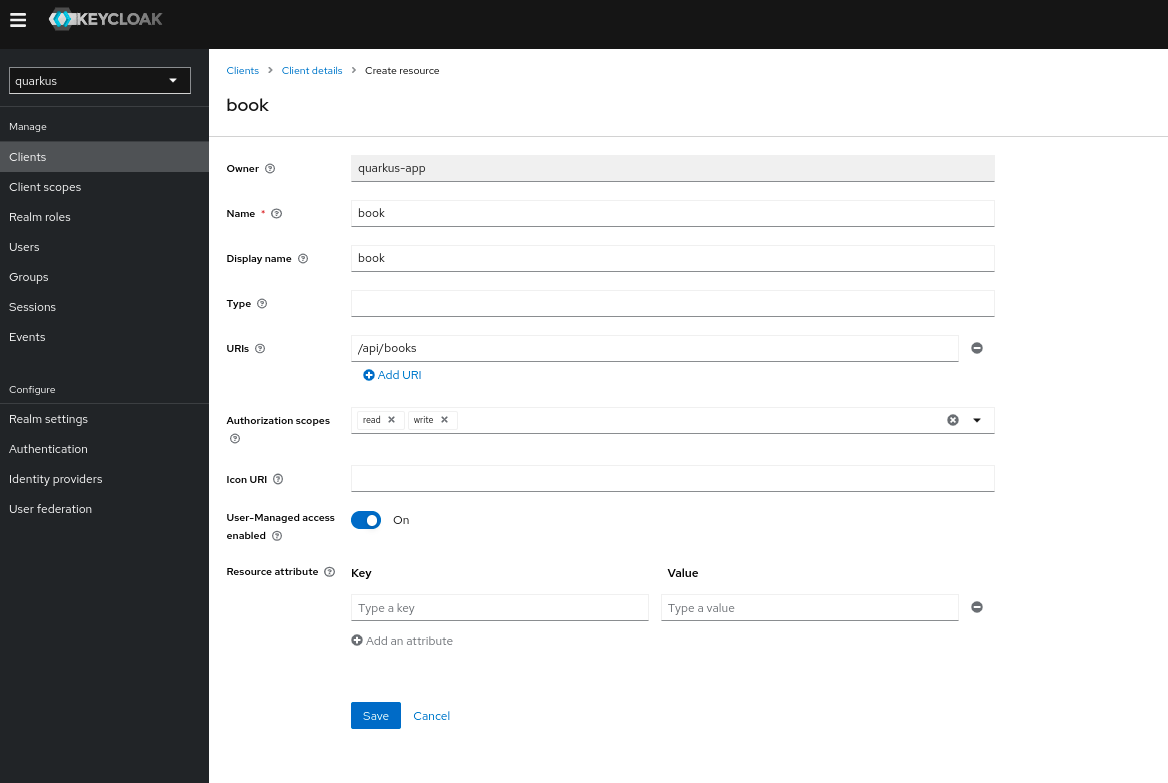
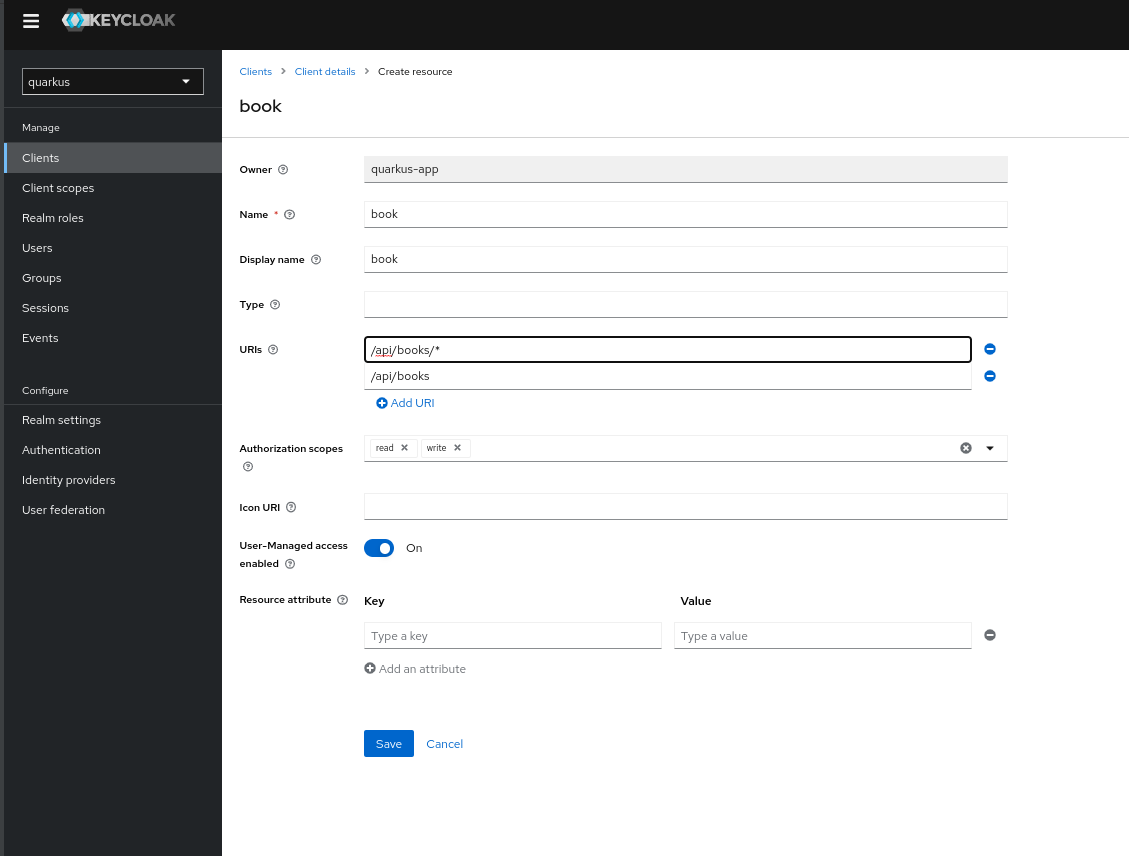
update screenshot of keycloak resource definition

diff --git a/quarkus/README.md b/quarkus/README.md
@@ -98,6 +98,7 @@ You should see 2 Authorization Scopes:
 
 ![img.png](./resources/pictures/protect-resource.png)
 
+
 #### Define Policies
 1. Go to Client --> Choose `Authorization` tab, and go to `Policies` sub-tab
 2. Click on button `Create policy
@@ -135,14 +136,14 @@ quarkus.keycloak.policy-enforcer.enable=true
 quarkus.keycloak.policy-enforcer.http-method-as-scope=true
 
 quarkus.keycloak.policy-enforcer.paths.1.name=read_book_permission
-quarkus.keycloak.policy-enforcer.paths.1.path=/api/books
+quarkus.keycloak.policy-enforcer.paths.1.path=/api/books/*
 quarkus.keycloak.policy-enforcer.paths.1.enforcement-mode=ENFORCING
 quarkus.keycloak.policy-enforcer.paths.1.methods.get.method=GET
 quarkus.keycloak.policy-enforcer.paths.1.methods.get.scopes=read
 #
 #
 quarkus.keycloak.policy-enforcer.paths.2.name=write_book_permission
-quarkus.keycloak.policy-enforcer.paths.2.path=/api/books
+quarkus.keycloak.policy-enforcer.paths.2.path=/api/books/*
 quarkus.keycloak.policy-enforcer.paths.2.enforcement-mode=ENFORCING
 quarkus.keycloak.policy-enforcer.paths.2.methods.post.method=POST
 quarkus.keycloak.policy-enforcer.paths.2.methods.post.scopes=write
